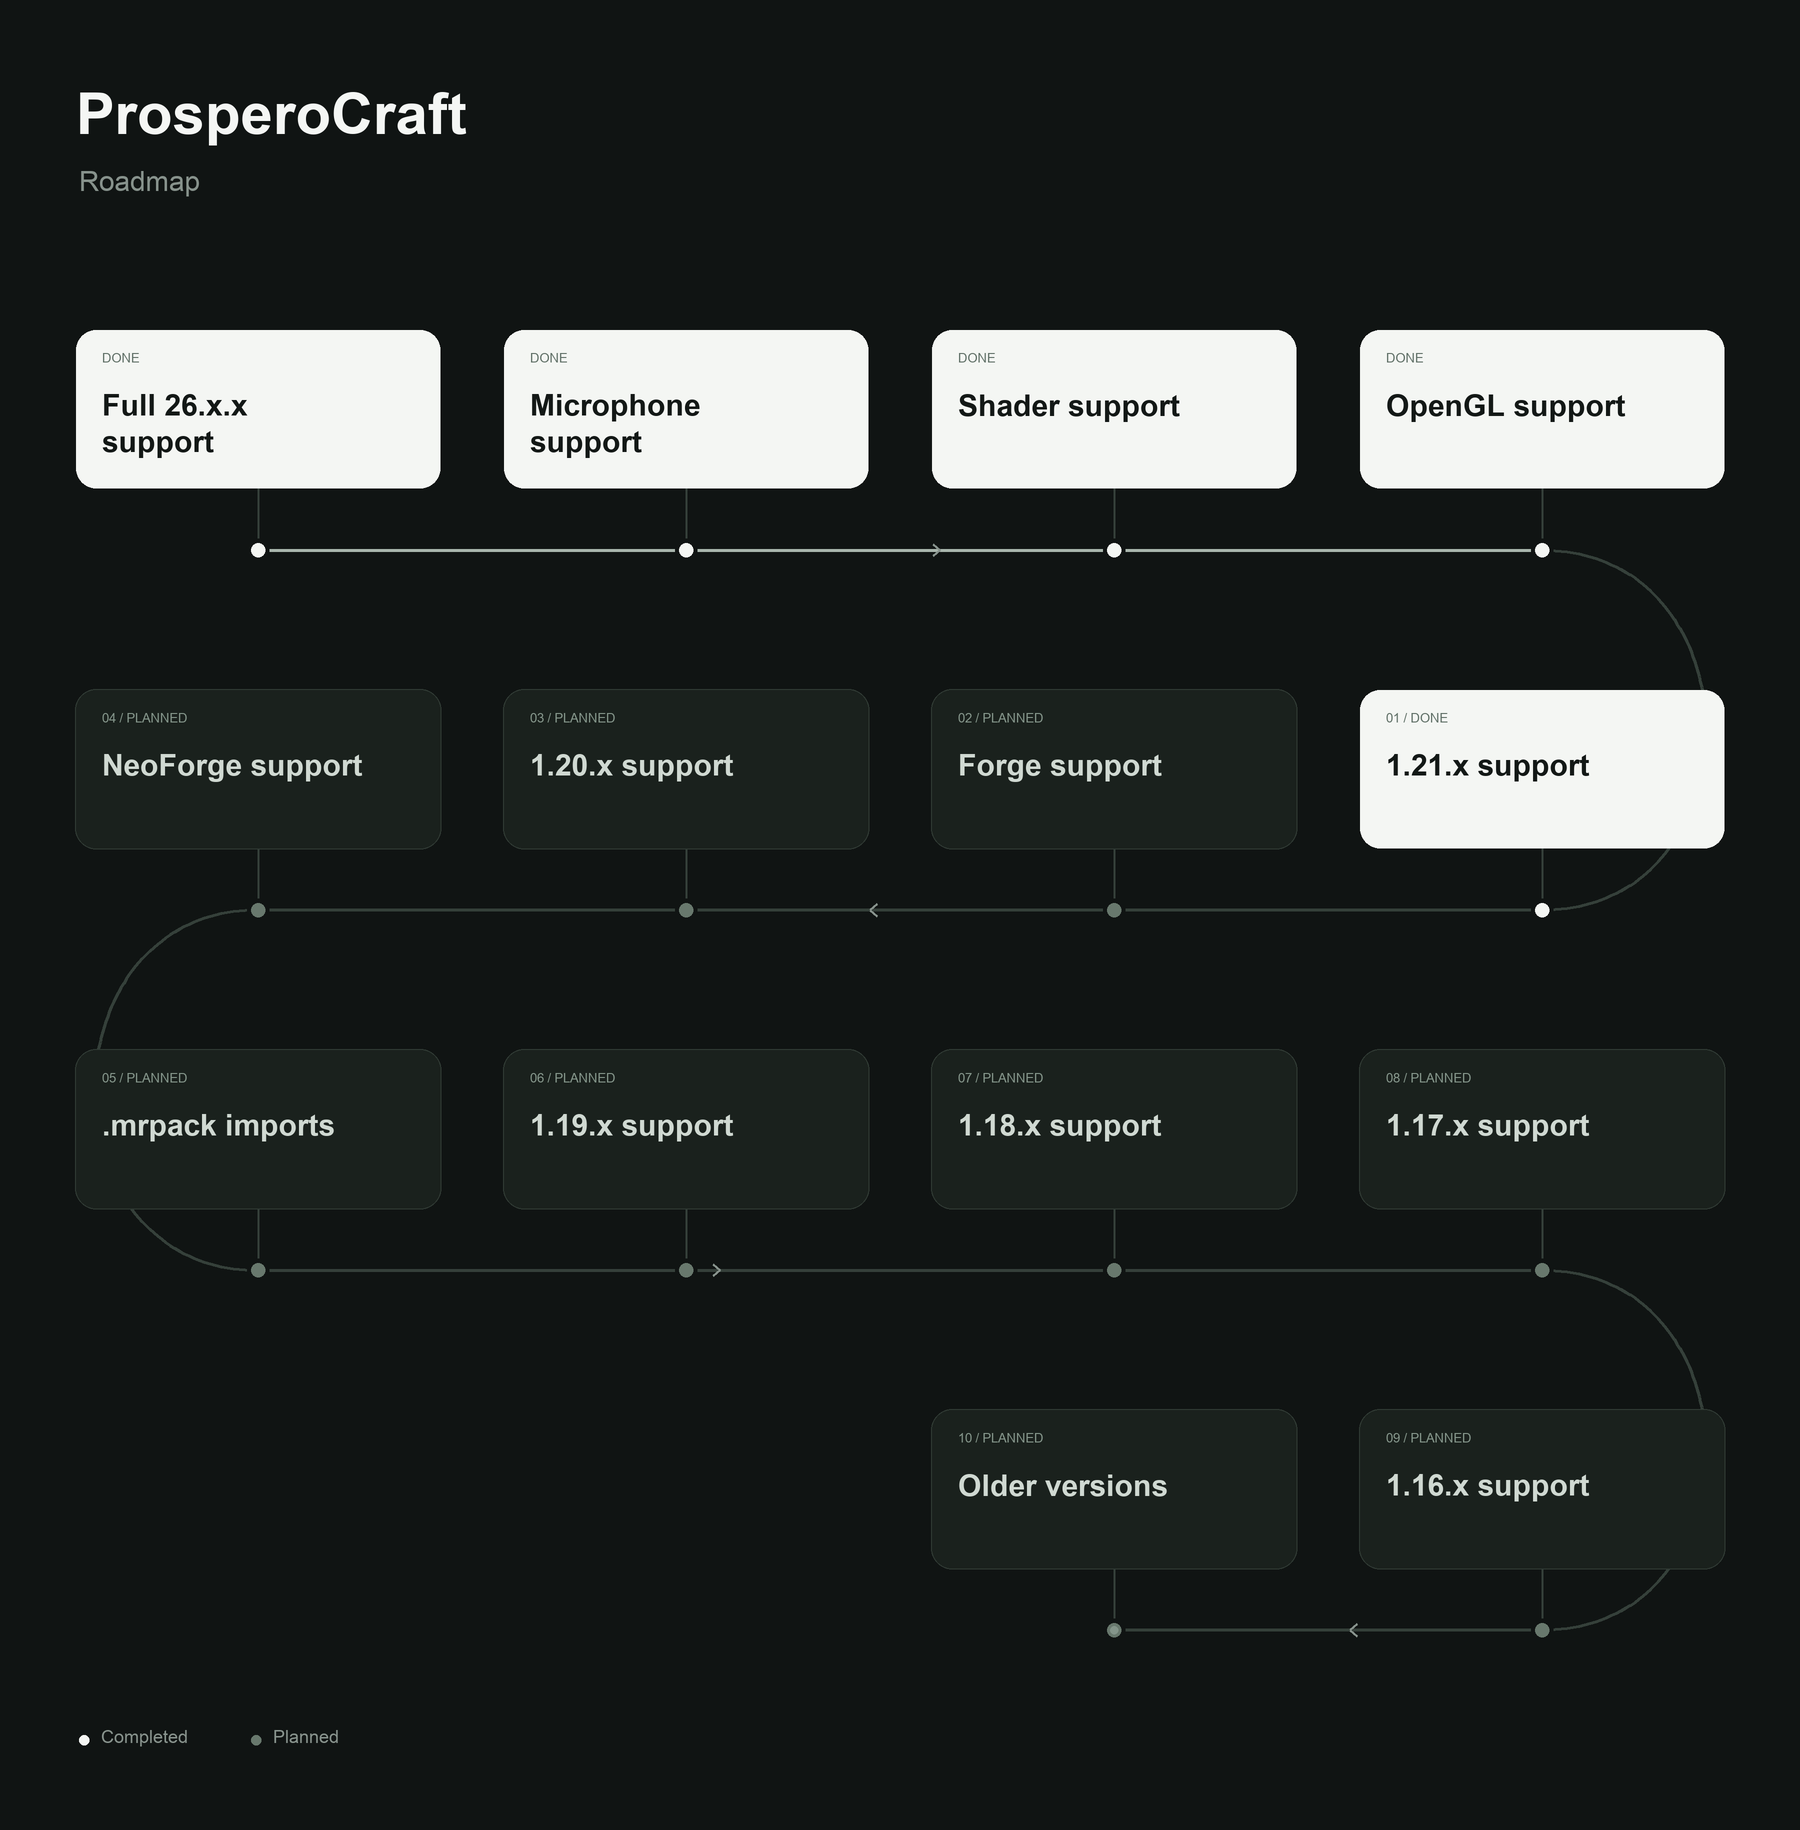
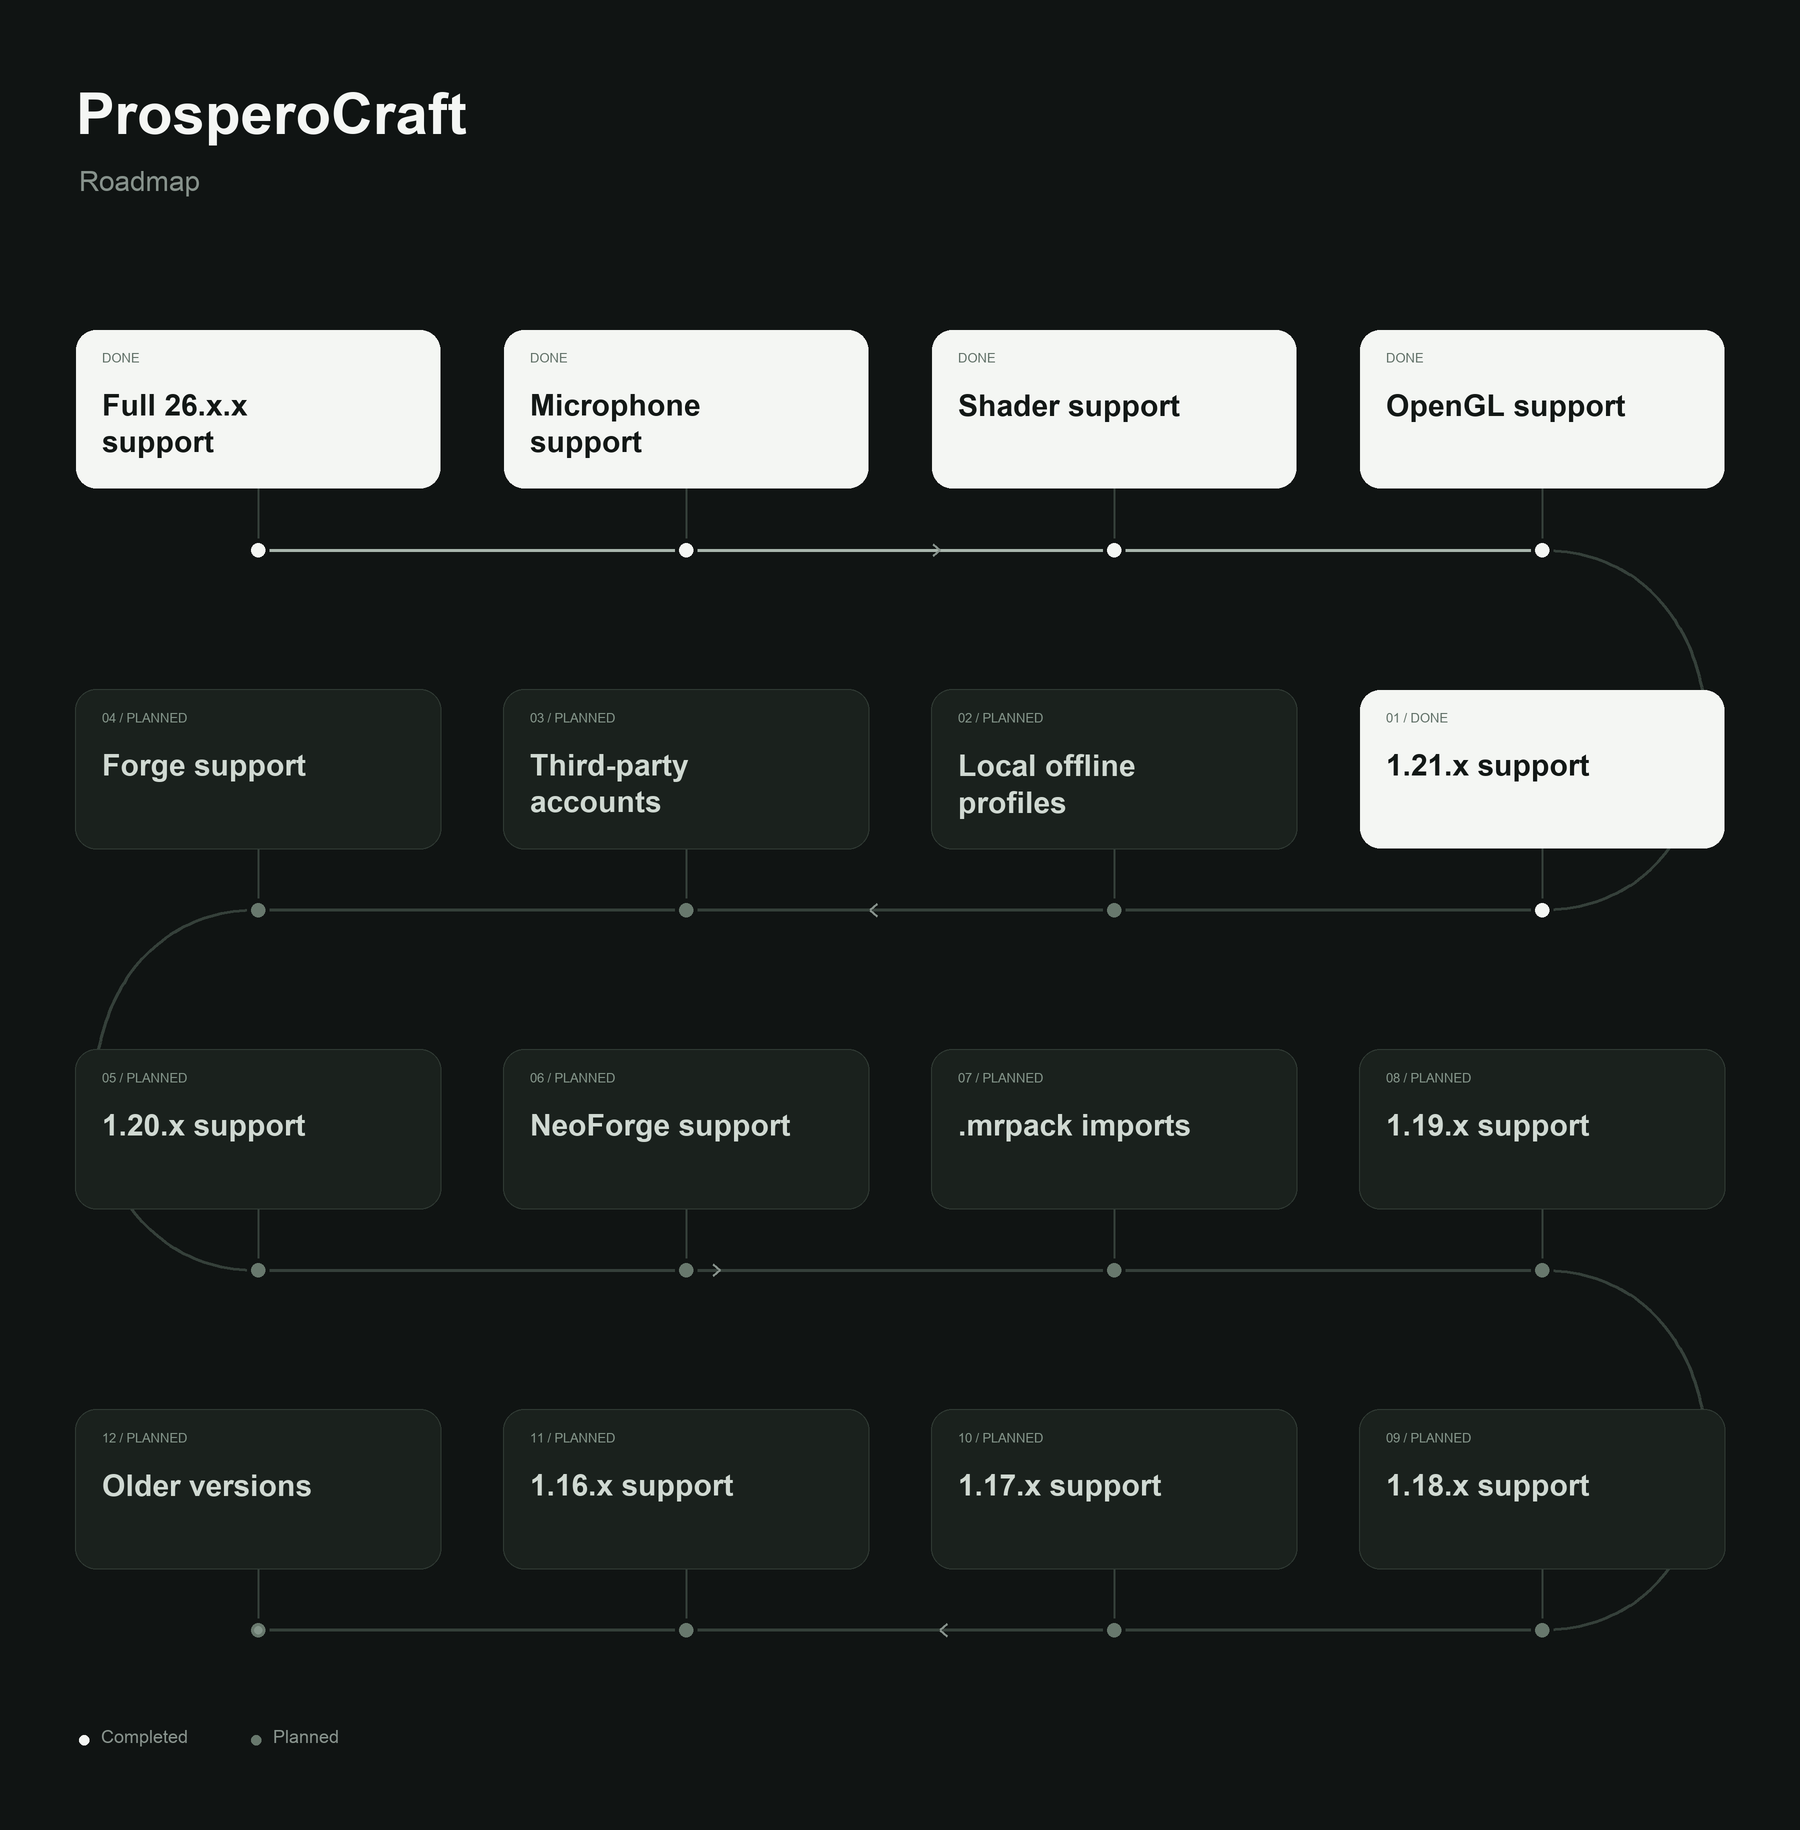
Prioritize offline profiles and third-party accounts

diff --git a/tools/draw_roadmap.py b/tools/draw_roadmap.py
@@ -21,7 +21,7 @@ def main():
     draw = ImageDraw.Draw(canvas)
     svg = [f'<svg xmlns="http://www.w3.org/2000/svg" width="{width}" height="{height}" viewBox="0 0 {width} {height}">',
            '<title>ProsperoCraft roadmap</title>',
-           '<desc>White completed milestones: Full 26.x.x support, microphone support, shader support, OpenGL support and 1.21.x support. Dark planned milestones: Forge support, 1.20.x support, NeoForge support, .mrpack imports, 1.19.x support, 1.18.x support, 1.17.x support, 1.16.x support and older versions.</desc>',
+           '<desc>White completed milestones: Full 26.x.x support, microphone support, shader support, OpenGL support and 1.21.x support. Dark planned milestones: local offline profiles, third-party accounts, Forge support, 1.20.x support, NeoForge support, .mrpack imports, 1.19.x support, 1.18.x support, 1.17.x support, 1.16.x support and older versions.</desc>',
            f'<rect width="{width}" height="{height}" fill="{bg}"/>']
 
     def rect(x, y, w, h, fill, radius=0):
@@ -56,10 +56,10 @@ def main():
     curve((258,910),(40,910),(40,1270),(258,1270))
     road.extend((258+i*1284/100,1270) for i in range(1,101))
     curve((1542,1270),(1760,1270),(1760,1630),(1542,1630))
-    road.extend((1542-i*428/100,1630) for i in range(1,101))
+    road.extend((1542-i*1284/100,1630) for i in range(1,101))
     line(road, '#35403A', 3)
     line(road[:101], '#A9B6AD', 3)
-    for x,y,direction in [(940,550,1),(870,910,-1),(720,1270,1),(1350,1630,-1)]:
+    for x,y,direction in [(940,550,1),(870,910,-1),(720,1270,1),(940,1630,-1)]:
         line([(x-7*direction,y-6),(x,y),(x-7*direction,y+6)], muted, 2)
 
     def card(x, y, title, done, road_y, number):
@@ -85,15 +85,16 @@ def main():
     completed[1]=['Microphone','support']
     for x,title in zip(xs,completed): card(x,330,title,True,550,0)
     milestones = [
-        '1.21.x support', 'Forge support', '1.20.x support', 'NeoForge support',
-        '.mrpack imports', '1.19.x support', '1.18.x support', '1.17.x support',
-        '1.16.x support', 'Older versions',
+        ['1.21.x support'], ['Local offline', 'profiles'], ['Third-party', 'accounts'],
+        ['Forge support'], ['1.20.x support'], ['NeoForge support'], ['.mrpack imports'],
+        ['1.19.x support'], ['1.18.x support'], ['1.17.x support'],
+        ['1.16.x support'], ['Older versions'],
     ]
     for index, title in enumerate(milestones):
         row, column = divmod(index, 4)
         x = xs[3-column] if row % 2 == 0 else xs[column]
-        card(x,690+row*360,[title],title == '1.21.x support',910+row*360,index+1)
-    circle(1114,1630,4,'#84958A')
+        card(x,690+row*360,title,index == 0,910+row*360,index+1)
+    circle(258,1630,4,'#84958A')
     circle(84,1740,5,'#F4F6F3')
     text(101,1730,'Completed',18,muted)
     circle(256,1740,5,'#68786D')

diff --git a/README.md b/README.md
@@ -113,9 +113,14 @@ If Play says Coming soon, compare the **version and loader** with the compatibil
 
 ## Roadmap
 
-![ProsperoCraft roadmap showing 1.21.x support as complete alongside planned NeoForge, Forge, older Minecraft versions and .mrpack imports](assets/roadmap/prosperocraft-roadmap.png)
+![ProsperoCraft roadmap with local offline profiles and third-party accounts planned before Forge and Minecraft 1.20.x](assets/roadmap/prosperocraft-roadmap.png)
 
-Next compatibility work proceeds from Vanilla 1.20 upward through 1.20.6, before NeoForge. See the [1.20.x and Java 17/21 investigation](docs/client-1.20-plan.md).
+Offline profiles and third-party accounts are the next priorities, ahead of Minecraft 1.20.1 and Forge.
+
+- **Local offline profiles.** Create a username-only profile and launch an installed instance without signing in to Microsoft. The planned scope covers singleplayer and servers configured for offline mode. Players can reuse installed game files or use the existing Microsoft sign-in flow to download them.
+- **Third-party accounts.** Explore Ely.by as the first provider alongside Microsoft, with support for compatible community servers and skin services. Wider support for authlib-injector-compatible providers depends on what works on PS5. [Ely.by integration documentation](https://docs.ely.by/en/minecraft-auth.html)
+
+The [1.20.x compatibility plan](docs/client-1.20-plan.md) still covers Vanilla 1.20 through 1.20.6 ahead of NeoForge.
 
 ### Completed milestones
 

diff --git a/assets/roadmap/README.md b/assets/roadmap/README.md
@@ -20,7 +20,6 @@ python3 tools/draw_roadmap.py --font /path/to/Arial.ttf --bold-font /path/to/Ari
 ```
 
 The lower rows follow the road right to left, left to right, then right to
-left. 1.21.x support is marked complete. NeoForge follows 1.20.x support at the
-maintainer's request on 2026-11-08. Numbered
-milestones make the reading order explicit. The roadmap shows capabilities
-rather than release dates.
+left. 1.21.x support is marked complete. Local offline profiles and third-party accounts precede Forge and 1.20.x.
+NeoForge follows 1.20.x support. The numbered milestones show the planned
+order of work.

diff --git a/docs/client-1.20-plan.md b/docs/client-1.20-plan.md
@@ -4,6 +4,9 @@ Maintainer direction, 2026-11-08: work upward from Vanilla 1.20 through 1.20.6,
 then return to NeoForge. Investigate both Java 17 and Java 21 as possible runtime
 options. Existing working releases and their runtime remain unchanged.
 
+The [current roadmap](../README.md#roadmap) prioritizes local offline profiles
+and third-party accounts ahead of Minecraft 1.20.1 and Forge.
+
 ## Verified publisher inputs
 
 | Releases | Publisher Java major | Publisher LWJGL | Modules |
